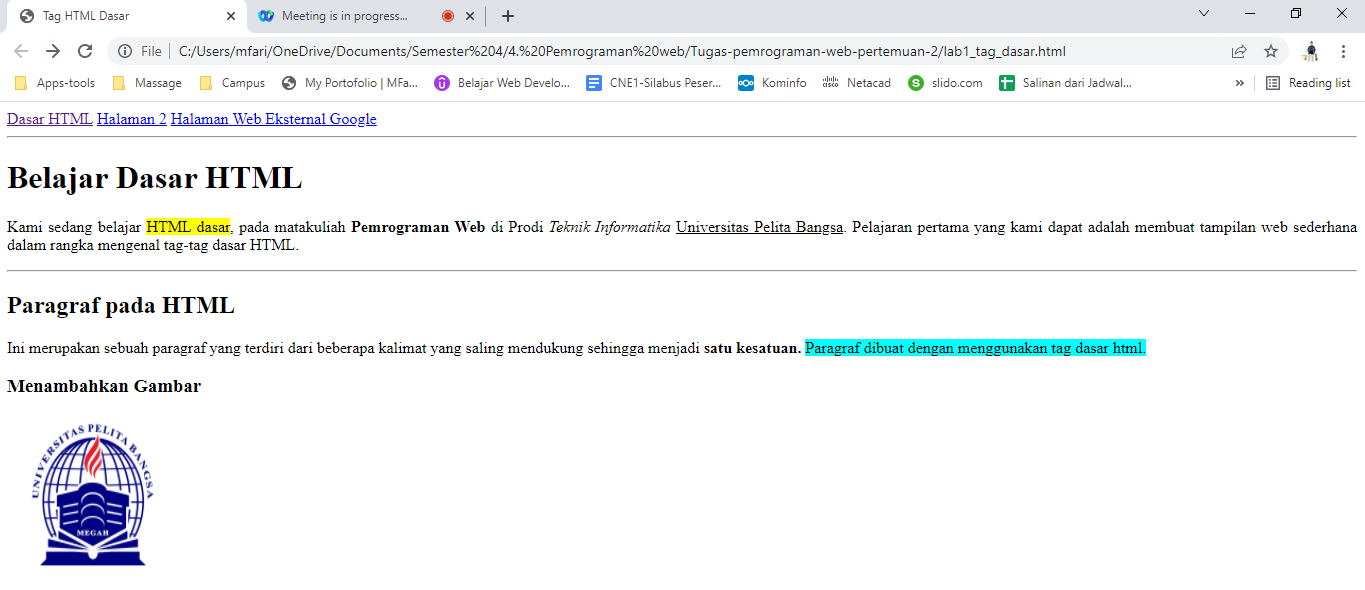
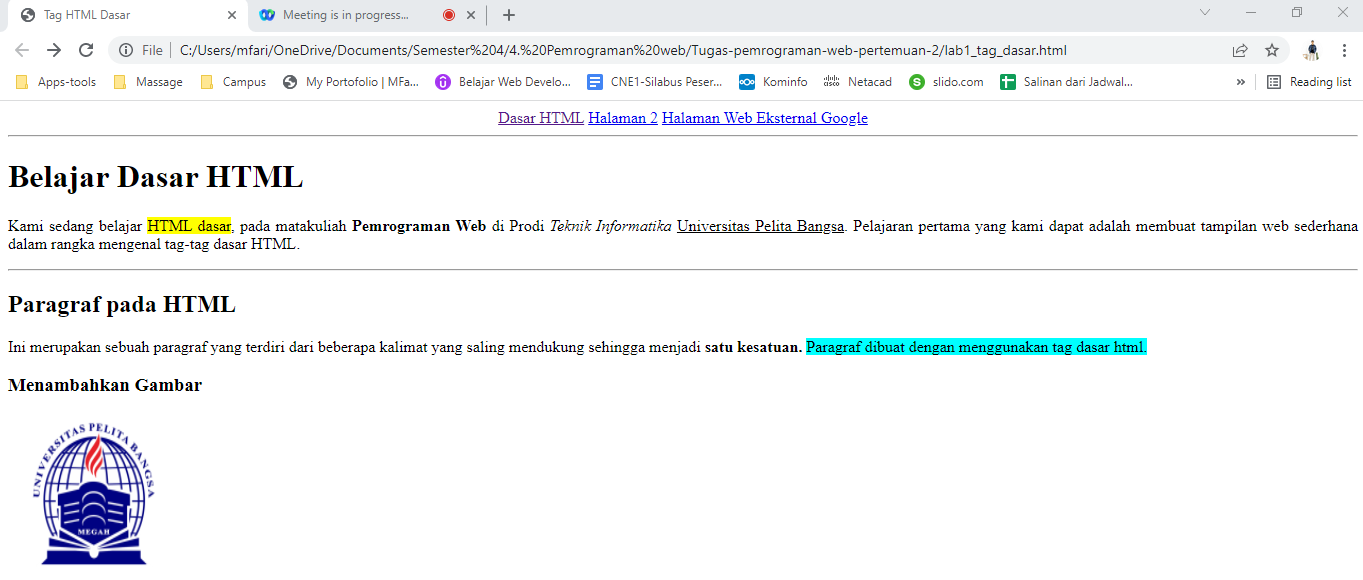
Update README.md

diff --git a/lab1_tag_dasar.html b/lab1_tag_dasar.html
@@ -4,13 +4,13 @@
         <title>Tag HTML Dasar</title>
     </head>
 <body>
-    <nav>
+    <div align="center">
         <a href="lab1_tag_dasar.html">Dasar HTML</a>
         <a href="lab1_halaman2.html">Halaman 2</a>
         <a href="http://www.google.com">Halaman Web Eksternal Google</a>
-        </nav>
+    </div>
     <hr>
-    
+
     <h1>Belajar Dasar HTML</h1>
         <p align="justify">Kami sedang belajar <font style="background-color: yellow;">HTML dasar</font>, pada matakuliah <b>Pemrograman Web</b> di Prodi <i>Teknik Informatika</i> <u>Universitas Pelita Bangsa</u>. Pelajaran pertama yang kami dapat adalah membuat tampilan web sederhana dalam rangka mengenal tag-tag dasar HTML.</p>
     <hr>
